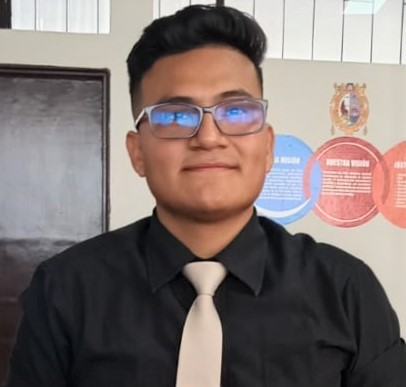
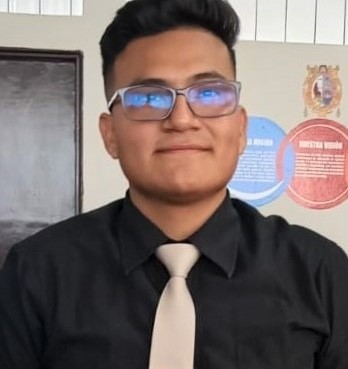
Add files via upload
cambios en el lema y foto del docente

diff --git a/index.html b/index.html
@@ -121,7 +121,7 @@
                                     <div class="text-sm-center text-md-end">
                                         <h4 class="text-primary text-uppercase fw-bold mb-4">Bienvenido a Academy TEC</h4>
                                         <h1 class="display-4 text-uppercase text-white mb-4">Ven con nosotros y diviértete aprendiendo</h1>
-                                        <p class="mb-5 fs-5">El 73 es el 21º número primo, y leído al revés es el 37, que es el 12º número primo, que al revés es el 21, que es el resultado de multiplicar agarraos fuerte 7 por 3 
+                                        <p class="mb-5 fs-5">El 73 es el 21º número primo, y leído al revés es el 37, que es el 12º número primo, que al revés es el 21, que es el resultado de multiplicar, agarraos fuerte, 7 por 3 
                                         </p>
                                         <div class="d-flex justify-content-center justify-content-md-end flex-shrink-0 mb-4">
                                             <a class="btn btn-light rounded-pill py-3 px-4 px-md-5 me-2" href="algebra.html"><i class="fas fa-play-circle me-2"></i>Video</a>
@@ -151,7 +151,7 @@
                                     <div class="text-center">
                                         <h4 class="text-primary text-uppercase fw-bold mb-4">Bienvenido a Academy TEC</h4>
                                         <h1 class="display-4 text-uppercase text-white mb-4">Ven con nosotros y diviértete aprendiendo</h1>
-                                        <p class="mb-5 fs-5">El 73 es el 21º número primo, y leído al revés es el 37, que es el 12º número primo, que al revés es el 21, que es el resultado de multiplicar agarraos fuerte 7 por 3 
+                                        <p class="mb-5 fs-5">El 73 es el 21º número primo, y leído al revés es el 37, que es el 12º número primo, que al revés es el 21, que es el resultado de multiplicar, agarraos fuerte, 7 por 3 
                                         </p>
                                         <div class="d-flex justify-content-center flex-shrink-0 mb-4">
                                             <a class="btn btn-light rounded-pill py-3 px-4 px-md-5 me-2" href="algebra.html"><i class="fas fa-play-circle me-2"></i>Video</a>
@@ -186,13 +186,11 @@
                         <div>
                             <h4 class="text-primary">Sobre Nosotros</h4>
                             <h1 class="display-5 mb-4">Conózcanos un poco más</h1>
-                            <p class="mb-4"><strong>Academy TEC</strong> es una institución educativa integral que ofrece programas desde 
-                              la primera infancia hasta la educación superior. Comprometidos con la excelencia académica, 
-                              cultivamos la curiosidad, la creatividad y el pensamiento crítico en nuestros estudiantes en 
-                              todas las etapas de su desarrollo. Nuestros educadores apasionados y programas de vanguardia 
-                              preparan a los estudiantes para el éxito académico y profesional, al tiempo que los inspiran a 
-                              convertirse en ciudadanos globales responsables. En Academy TEC, estamos construyendo un futuro 
-                              brillante para las generaciones venideras a través del poder transformador de la educación
+                            <p class="mb-4"><strong>Academy TEC</strong> es una institución educativa integral que ofrece 
+                            programas desde la primera infancia hasta la educación superior. Comprometidos con la excelencia 
+                            académica, cultivamos la curiosidad, la creatividad y el pensamiento crítico en nuestros estudiantes. 
+                            En Academy TEC, estamos construyendo un futuro brillante para las generaciones venideras a través 
+                            del poder transformador de la educación.
                   
                             </p>
                             <div class="row g-4">
@@ -244,7 +242,7 @@
             <div class="container pb-5">
                 <div class="text-center mx-auto pb-5 wow fadeInUp" data-wow-delay="0.2s" style="max-width: 800px;">
                     <h4 class="text-primary">Nuestros Servicios</h4>
-                    <h1 class="display-5 mb-4">Clases para cualquier alumno</h1>
+                    <h1 class="display-5 mb-4">Clases para todos los niveles</h1>
                     <p class="mb-0">Ofrecemos clases personalizadas, clases virtuales y clases presenciales
                     </p>
                 </div>
@@ -270,8 +268,8 @@
                             </div>
                             <div class="rounded-bottom p-4">
                                 <a href="#" class="h4 d-inline-block mb-4">Clases virtuales</a>
-                                <p class="mb-4">Se llevan a cabo en línea a través de plataformas digitales, permitiendo a los 
-                                    estudiantes participar desde cualquier lugar ...
+                                <p class="mb-4">Se llevan a cabo en línea a través de plataformas digitales (zoom, google meet, etc), 
+                                    permitiendo a los estudiantes participar ...
                                 </p>
                                 <a class="btn btn-primary rounded-pill py-2 px-4" href="servicio.html">Leer más</a>
                             </div>
@@ -403,8 +401,8 @@
 
 
         <!-- Offer Start -->
-        <div class="container-fluid offer-section pb-5">
-            <div class="container pb-5">
+        <div class="container-fluid offer-section pb-5 bottom_abajo">
+            <div class="container pb-5 bottom_abajo">
                 <div class="text-center mx-auto pb-5 wow fadeInUp" data-wow-delay="0.2s" style="max-width: 800px;">
                     <h4 class="text-primary">Videos</h4>
                     <h1 class="display-5 mb-4">Nuestras clases</h1>
@@ -423,9 +421,6 @@
                             <a class="accordion-link p-4 mb-4" data-bs-toggle="pill" href="#collapseThree">
                                 <h5 class="mb-0">TRIGONOMETRÍA</h5>
                             </a>
-                            <a class="accordion-link p-4 mb-0" data-bs-toggle="pill" href="#collapseFour">
-                                <h5 class="mb-0">GEOMETRÍA</h5>
-                            </a>
                         </div>
                     </div>
                     <div class="col-xl-7 wow fadeInRight" data-wow-delay="0.4s">
@@ -443,9 +438,9 @@
                                         <a class="btn btn-primary rounded-pill py-2 px-4" href="algebra.html">Leer más</a>
                                     </div>
                                     <div class="col-md-12">
-                                        <iframe width="560" height="315" class="virtual__video" src="https://www.youtube.com/embed/Er28NSjtPLc?si=zUZZYQ5F7D4aPCSO" 
+                                        <center><iframe width="70%" height="315px" class="virtual__video" src="https://www.youtube.com/embed/Er28NSjtPLc?si=zUZZYQ5F7D4aPCSO" 
               title="YouTube video player" frameborder="0" allow="accelerometer; autoplay; 
-              clipboard-write; encrypted-media; gyroscope; picture-in-picture; web-share" allowfullscreen></iframe>
+              clipboard-write; encrypted-media; gyroscope; picture-in-picture; web-share" allowfullscreen></iframe></center>
                                     </div>
                                 </div>
                             </div>
@@ -461,9 +456,9 @@
                                         <a class="btn btn-primary rounded-pill py-2 px-4" href="aritmetica.html">Leer más</a>
                                     </div>
                                     <div class="col-md-12">
-                                        <iframe width="560" height="315" class="virtual__video" src="https://www.youtube.com/embed/fXxQHXNlqtk?si=-1UbL3O9B4fNDefH" 
+                                        <center><iframe width="70%" height="315" class="virtual__video" src="https://www.youtube.com/embed/fXxQHXNlqtk?si=-1UbL3O9B4fNDefH" 
               title="YouTube video player" frameborder="0" allow="accelerometer; autoplay; 
-              clipboard-write; encrypted-media; gyroscope; picture-in-picture; web-share" allowfullscreen></iframe>
+              clipboard-write; encrypted-media; gyroscope; picture-in-picture; web-share" allowfullscreen></iframe></center>
                                     </div>
                                 </div>
                             </div>
@@ -479,9 +474,9 @@
                                         <a class="btn btn-primary rounded-pill py-2 px-4" href="trigonometria.html">Leer más</a>
                                     </div>
                                     <div class="col-md-12">
-                                        <iframe width="560" height="315" class="virtual__video" src="https://www.youtube.com/embed/xQhd7Bjap1g?si=yRlZWGJvavjIhkGW" 
+                                        <center><iframe width="70%" height="315" class="virtual__video" src="https://www.youtube.com/embed/xQhd7Bjap1g?si=yRlZWGJvavjIhkGW" 
               title="YouTube video player" frameborder="0" allow="accelerometer; autoplay; 
-              clipboard-write; encrypted-media; gyroscope; picture-in-picture; web-share" allowfullscreen></iframe>
+              clipboard-write; encrypted-media; gyroscope; picture-in-picture; web-share" allowfullscreen></iframe></center>
                                     </div>
                                 </div>
                             </div>
@@ -497,9 +492,9 @@
                                         <a class="btn btn-primary rounded-pill py-2 px-4" href="geometria.html">Leer más</a>
                                     </div>
                                     <div class="col-md-12">
-                                        <iframe width="560" height="315" class="virtual__video" src="https://www.youtube.com/embed/aCINBLGwzUs?si=hwB6CuRdsF4KpEqm" 
+                                        <center><iframe width="70%" height="315" class="virtual__video" src="https://www.youtube.com/embed/aCINBLGwzUs?si=hwB6CuRdsF4KpEqm" 
               title="YouTube video player" frameborder="0" allow="accelerometer; autoplay; 
-              clipboard-write; encrypted-media; gyroscope; picture-in-picture; web-share" allowfullscreen></iframe>
+              clipboard-write; encrypted-media; gyroscope; picture-in-picture; web-share" allowfullscreen></iframe></center>
                                     </div>
                                 </div>
                             </div>
@@ -896,22 +891,9 @@
                                 <h4 class="text-white"><i class="fas fa-search-dollar me-3"></i>AcademyTEC</h4>
                                 <!-- <img src="img/logo.png" alt="Logo"> -->
                             </a>
-                            <p class="mb-4">El 73 es el 21º número primo, y leído al revés es el 37, que es el 12º número primo, que al revés es el 21, que es el resultado de multiplicar agarraos fuerte 7 por 3 </p>
+                            <p class="mb-4">El 73 es el 21º número primo, y leído al revés es el 37, que es el 12º número primo, que al revés es el 21, que es el resultado de multiplicar, agarraos fuerte, 7 por 3 </p>
                             <div class="d-flex">
-                                <a href="#" class="bg-primary d-flex rounded align-items-center py-2 px-3 me-2">
-                                    <i class="fas fa-apple-alt text-white"></i>
-                                    <div class="ms-3">
-                                        <small class="text-white">Descárgelo en</small>
-                                        <h6 class="text-white">App Store</h6>
-                                    </div>
-                                </a>
-                                <a href="#" class="bg-dark d-flex rounded align-items-center py-2 px-3 ms-2">
-                                    <i class="fas fa-play text-primary"></i>
-                                    <div class="ms-3">
-                                        <small class="text-white">Descárgelo en</small>
-                                        <h6 class="text-white">Google Play</h6>
-                                    </div>
-                                </a>
+                                
                             </div>
                         </div>
                     </div>
@@ -989,8 +971,10 @@
 
 
         <!-- Back to Top -->
-        <a href="#" class="btn btn-primary btn-lg-square rounded-circle back-to-top"><i class="fa fa-arrow-up"></i></a>   
-
+        <!--<a href="#" class="btn btn-primary btn-lg-square rounded-circle back-to-top"><i class="fa fa-arrow-up"></i></a>-->
+        <a target="_blank" class="btn btn-primary btn-lg-square rounded-circle back-to-top" href="https://wa.me/51989872591">
+            <img src="img/whatsapp.png" alt="WhatsApp">
+        </a>
         
         <!-- JavaScript Libraries -->
         <script src="https://ajax.googleapis.com/ajax/libs/jquery/3.6.4/jquery.min.js"></script>

diff --git a/servicio.html b/servicio.html
@@ -156,9 +156,9 @@
                             </div>
                             <div class="col-8">
                                 <h4>Clases virtuales</h4>
-                                <p class="mb-4">Se llevan a cabo en línea a través de plataformas digitales, permitiendo a 
-                                    los estudiantes participar desde cualquier lugar con acceso a internet. Las clases pueden 
-                                    ser en vivo (sincrónicas) o grabadas (asincrónicas).
+                                <p class="mb-4">Se llevan a cabo en línea a través de plataformas digitales (zoom, google meet, etc), 
+                                    permitiendo a los estudiantes participar desde cualquier lugar con acceso a internet. 
+                                    Las clases pueden ser en vivo (sincrónicas) o grabadas (asincrónicas).
                                 </p>
                             </div>
                         </div>
@@ -171,8 +171,7 @@
                             <div class="col-8">
                                 <h4>Clases personalizadas</h4>
                                 <p class="mb-4">Adaptadas a las necesidades individuales de cada estudiante, estas clases se 
-                                    enfocan en el ritmo, estilo de aprendizaje y objetivos específicos del alumno, ofreciendo 
-                                    una experiencia educativa más enfocada.
+                                    enfocan en el ritmo, estilo de aprendizaje y objetivos específicos del alumno.
                                 </p>
                             </div>
                         </div>
@@ -232,22 +231,9 @@
                                 <h4 class="text-white"><i class="fas fa-search-dollar me-3"></i>AcademyTEC</h4>
                                 <!-- <img src="img/logo.png" alt="Logo"> -->
                             </a>
-                            <p class="mb-4">El 73 es el 21º número primo, y leído al revés es el 37, que es el 12º número primo, que al revés es el 21, que es el resultado de multiplicar agarraos fuerte 7 por 3 </p>
+                            <p class="mb-4">El 73 es el 21º número primo, y leído al revés es el 37, que es el 12º número primo, que al revés es el 21, que es el resultado de multiplicar, agarraos fuerte, 7 por 3 </p>
                             <div class="d-flex">
-                                <a href="#" class="bg-primary d-flex rounded align-items-center py-2 px-3 me-2">
-                                    <i class="fas fa-apple-alt text-white"></i>
-                                    <div class="ms-3">
-                                        <small class="text-white">Descárgelo en</small>
-                                        <h6 class="text-white">App Store</h6>
-                                    </div>
-                                </a>
-                                <a href="#" class="bg-dark d-flex rounded align-items-center py-2 px-3 ms-2">
-                                    <i class="fas fa-play text-primary"></i>
-                                    <div class="ms-3">
-                                        <small class="text-white">Descárgelo en</small>
-                                        <h6 class="text-white">Google Play</h6>
-                                    </div>
-                                </a>
+                                
                             </div>
                         </div>
                     </div>

diff --git a/contactanos.html b/contactanos.html
@@ -252,22 +252,9 @@
                                 <h4 class="text-white"><i class="fas fa-search-dollar me-3"></i>Academy TEC</h4>
                                 <!-- <img src="img/logo.png" alt="Logo"> -->
                             </a>
-                            <p class="mb-4">El 73 es el 21º número primo, y leído al revés es el 37, que es el 12º número primo, que al revés es el 21, que es el resultado de multiplicar agarraos fuerte 7 por 3 </p>
+                            <p class="mb-4">El 73 es el 21º número primo, y leído al revés es el 37, que es el 12º número primo, que al revés es el 21, que es el resultado de multiplicar, agarraos fuerte, 7 por 3 </p>
                             <div class="d-flex">
-                                <a href="#" class="bg-primary d-flex rounded align-items-center py-2 px-3 me-2">
-                                    <i class="fas fa-apple-alt text-white"></i>
-                                    <div class="ms-3">
-                                        <small class="text-white">Descárgelo en</small>
-                                        <h6 class="text-white">App Store</h6>
-                                    </div>
-                                </a>
-                                <a href="#" class="bg-dark d-flex rounded align-items-center py-2 px-3 ms-2">
-                                    <i class="fas fa-play text-primary"></i>
-                                    <div class="ms-3">
-                                        <small class="text-white">Descárgelo en</small>
-                                        <h6 class="text-white">Google Play</h6>
-                                    </div>
-                                </a>
+                                
                             </div>
                         </div>
                     </div>

diff --git a/algebra.html b/algebra.html
@@ -199,22 +199,9 @@
                                 <h4 class="text-white"><i class="fas fa-search-dollar me-3"></i>AcademyTEC</h4>
                                 <!-- <img src="img/logo.png" alt="Logo"> -->
                             </a>
-                            <p class="mb-4">El 73 es el 21º número primo, y leído al revés es el 37, que es el 12º número primo, que al revés es el 21, que es el resultado de multiplicar agarraos fuerte 7 por 3 </p>
+                            <p class="mb-4">El 73 es el 21º número primo, y leído al revés es el 37, que es el 12º número primo, que al revés es el 21, que es el resultado de multiplicar, agarraos fuerte, 7 por 3 </p>
                             <div class="d-flex">
-                                <a href="#" class="bg-primary d-flex rounded align-items-center py-2 px-3 me-2">
-                                    <i class="fas fa-apple-alt text-white"></i>
-                                    <div class="ms-3">
-                                        <small class="text-white">Descárgelo en</small>
-                                        <h6 class="text-white">App Store</h6>
-                                    </div>
-                                </a>
-                                <a href="#" class="bg-dark d-flex rounded align-items-center py-2 px-3 ms-2">
-                                    <i class="fas fa-play text-primary"></i>
-                                    <div class="ms-3">
-                                        <small class="text-white">Descárgelo en</small>
-                                        <h6 class="text-white">Google Play</h6>
-                                    </div>
-                                </a>
+                                
                             </div>
                         </div>
                     </div>

diff --git a/aritmetica.html b/aritmetica.html
@@ -199,22 +199,9 @@
                                 <h4 class="text-white"><i class="fas fa-search-dollar me-3"></i>AcademyTEC</h4>
                                 <!-- <img src="img/logo.png" alt="Logo"> -->
                             </a>
-                            <p class="mb-4">El 73 es el 21º número primo, y leído al revés es el 37, que es el 12º número primo, que al revés es el 21, que es el resultado de multiplicar agarraos fuerte 7 por 3 </p>
+                            <p class="mb-4">El 73 es el 21º número primo, y leído al revés es el 37, que es el 12º número primo, que al revés es el 21, que es el resultado de multiplicar, agarraos fuerte, 7 por 3 </p>
                             <div class="d-flex">
-                                <a href="#" class="bg-primary d-flex rounded align-items-center py-2 px-3 me-2">
-                                    <i class="fas fa-apple-alt text-white"></i>
-                                    <div class="ms-3">
-                                        <small class="text-white">Descárgelo en</small>
-                                        <h6 class="text-white">App Store</h6>
-                                    </div>
-                                </a>
-                                <a href="#" class="bg-dark d-flex rounded align-items-center py-2 px-3 ms-2">
-                                    <i class="fas fa-play text-primary"></i>
-                                    <div class="ms-3">
-                                        <small class="text-white">Descárgelo en</small>
-                                        <h6 class="text-white">Google Play</h6>
-                                    </div>
-                                </a>
+                                
                             </div>
                         </div>
                     </div>

diff --git a/blogs.html b/blogs.html
@@ -198,22 +198,9 @@
                                 <h4 class="text-white"><i class="fas fa-search-dollar me-3"></i>AcademyTEC</h4>
                                 <!-- <img src="img/logo.png" alt="Logo"> -->
                             </a>
-                            <p class="mb-4">El 73 es el 21º número primo, y leído al revés es el 37, que es el 12º número primo, que al revés es el 21, que es el resultado de multiplicar agarraos fuerte 7 por 3 </p>
+                            <p class="mb-4">El 73 es el 21º número primo, y leído al revés es el 37, que es el 12º número primo, que al revés es el 21, que es el resultado de multiplicar, agarraos fuerte, 7 por 3 </p>
                             <div class="d-flex">
-                                <a href="#" class="bg-primary d-flex rounded align-items-center py-2 px-3 me-2">
-                                    <i class="fas fa-apple-alt text-white"></i>
-                                    <div class="ms-3">
-                                        <small class="text-white">Descárgelo en</small>
-                                        <h6 class="text-white">App Store</h6>
-                                    </div>
-                                </a>
-                                <a href="#" class="bg-dark d-flex rounded align-items-center py-2 px-3 ms-2">
-                                    <i class="fas fa-play text-primary"></i>
-                                    <div class="ms-3">
-                                        <small class="text-white">Descárgelo en</small>
-                                        <h6 class="text-white">Google Play</h6>
-                                    </div>
-                                </a>
+                                
                             </div>
                         </div>
                     </div>

diff --git a/geometria.html b/geometria.html
@@ -199,22 +199,9 @@
                                 <h4 class="text-white"><i class="fas fa-search-dollar me-3"></i>AcademyTEC</h4>
                                 <!-- <img src="img/logo.png" alt="Logo"> -->
                             </a>
-                            <p class="mb-4">El 73 es el 21º número primo, y leído al revés es el 37, que es el 12º número primo, que al revés es el 21, que es el resultado de multiplicar agarraos fuerte 7 por 3 </p>
+                            <p class="mb-4">El 73 es el 21º número primo, y leído al revés es el 37, que es el 12º número primo, que al revés es el 21, que es el resultado de multiplicar, agarraos fuerte, 7 por 3 </p>
                             <div class="d-flex">
-                                <a href="#" class="bg-primary d-flex rounded align-items-center py-2 px-3 me-2">
-                                    <i class="fas fa-apple-alt text-white"></i>
-                                    <div class="ms-3">
-                                        <small class="text-white">Descárgelo en</small>
-                                        <h6 class="text-white">App Store</h6>
-                                    </div>
-                                </a>
-                                <a href="#" class="bg-dark d-flex rounded align-items-center py-2 px-3 ms-2">
-                                    <i class="fas fa-play text-primary"></i>
-                                    <div class="ms-3">
-                                        <small class="text-white">Descárgelo en</small>
-                                        <h6 class="text-white">Google Play</h6>
-                                    </div>
-                                </a>
+                                
                             </div>
                         </div>
                     </div>

diff --git a/nosotros.html b/nosotros.html
@@ -238,22 +238,9 @@
                                 <h4 class="text-white"><i class="fas fa-search-dollar me-3"></i>AcademyTEC</h4>
                                 <!-- <img src="img/logo.png" alt="Logo"> -->
                             </a>
-                            <p class="mb-4">El 73 es el 21º número primo, y leído al revés es el 37, que es el 12º número primo, que al revés es el 21, que es el resultado de multiplicar agarraos fuerte 7 por 3 </p>
+                            <p class="mb-4">El 73 es el 21º número primo, y leído al revés es el 37, que es el 12º número primo, que al revés es el 21, que es el resultado de multiplicar, agarraos fuerte, 7 por 3 </p>
                             <div class="d-flex">
-                                <a href="#" class="bg-primary d-flex rounded align-items-center py-2 px-3 me-2">
-                                    <i class="fas fa-apple-alt text-white"></i>
-                                    <div class="ms-3">
-                                        <small class="text-white">Descárgelo en</small>
-                                        <h6 class="text-white">App Store</h6>
-                                    </div>
-                                </a>
-                                <a href="#" class="bg-dark d-flex rounded align-items-center py-2 px-3 ms-2">
-                                    <i class="fas fa-play text-primary"></i>
-                                    <div class="ms-3">
-                                        <small class="text-white">Descárgelo en</small>
-                                        <h6 class="text-white">Google Play</h6>
-                                    </div>
-                                </a>
+                                
                             </div>
                         </div>
                     </div>

diff --git a/trigonometria.html b/trigonometria.html
@@ -199,22 +199,9 @@
                                 <h4 class="text-white"><i class="fas fa-search-dollar me-3"></i>AcademyTEC</h4>
                                 <!-- <img src="img/logo.png" alt="Logo"> -->
                             </a>
-                            <p class="mb-4">El 73 es el 21º número primo, y leído al revés es el 37, que es el 12º número primo, que al revés es el 21, que es el resultado de multiplicar agarraos fuerte 7 por 3 </p>
+                            <p class="mb-4">El 73 es el 21º número primo, y leído al revés es el 37, que es el 12º número primo, que al revés es el 21, que es el resultado de multiplicar, agarraos fuerte, 7 por 3 </p>
                             <div class="d-flex">
-                                <a href="#" class="bg-primary d-flex rounded align-items-center py-2 px-3 me-2">
-                                    <i class="fas fa-apple-alt text-white"></i>
-                                    <div class="ms-3">
-                                        <small class="text-white">Descárgelo en</small>
-                                        <h6 class="text-white">App Store</h6>
-                                    </div>
-                                </a>
-                                <a href="#" class="bg-dark d-flex rounded align-items-center py-2 px-3 ms-2">
-                                    <i class="fas fa-play text-primary"></i>
-                                    <div class="ms-3">
-                                        <small class="text-white">Descárgelo en</small>
-                                        <h6 class="text-white">Google Play</h6>
-                                    </div>
-                                </a>
+                                
                             </div>
                         </div>
                     </div>
